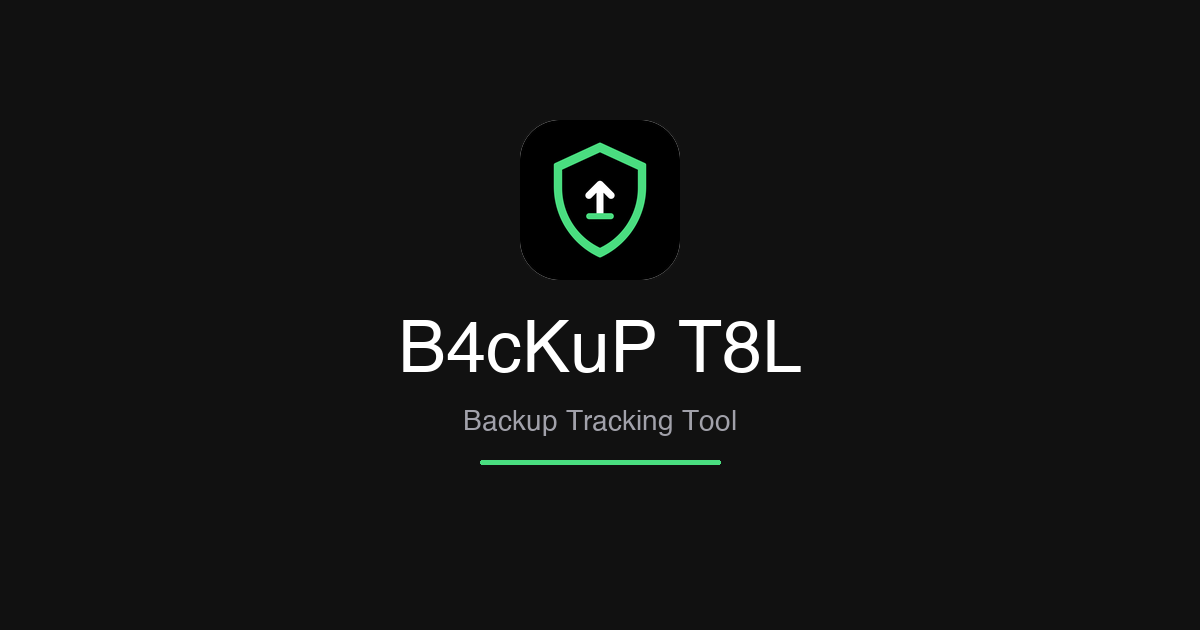
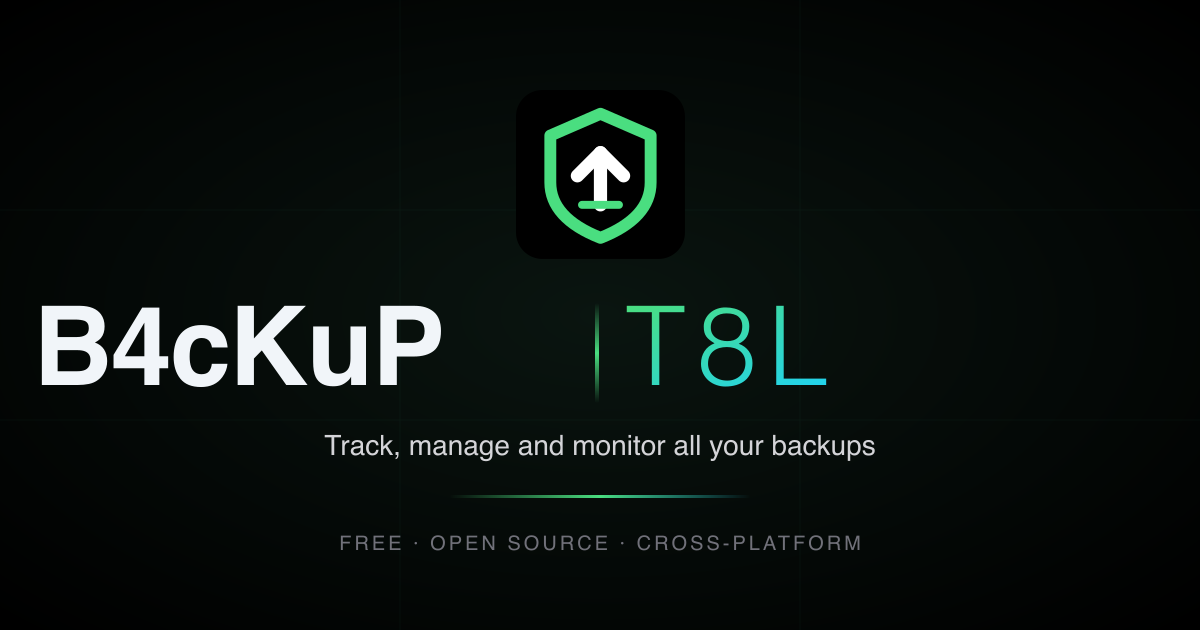
Redesign og-image to match website brand and improve meta tags
- New og-image.svg uses same brand treatment as website hero:
  "B4cKuP" in white + vertical green gradient divider + "T8L" in green→cyan gradient
- Regenerated og-image.png at 1200x630
- Add og:image:width/height/type/alt for better link previews
- Richer og:description and twitter metadata

diff --git a/website/index.html b/website/index.html
@@ -16,17 +16,23 @@
 
     <!-- Open Graph / Social Media -->
     <meta property="og:type" content="website" />
-    <meta property="og:title" content="B4cKuP T8L" />
-    <meta property="og:description" content="Track, manage and monitor all your backups in one place. Free and open source." />
+    <meta property="og:title" content="B4cKuP T8L — Backup Tracking Tool" />
+    <meta property="og:description" content="Track, manage and monitor all your backups in one place. Free, open-source desktop app for Windows, macOS and Linux." />
     <meta property="og:image" content="https://backup-tool.app/og-image.png" />
+    <meta property="og:image:width" content="1200" />
+    <meta property="og:image:height" content="630" />
+    <meta property="og:image:type" content="image/png" />
+    <meta property="og:image:alt" content="B4cKuP T8L — Backup Tracking Tool" />
     <meta property="og:url" content="https://backup-tool.app" />
     <meta property="og:site_name" content="B4cKuP T8L" />
+    <meta property="og:locale" content="en_US" />
 
     <!-- Twitter -->
     <meta name="twitter:card" content="summary_large_image" />
-    <meta name="twitter:title" content="B4cKuP T8L" />
-    <meta name="twitter:description" content="Track, manage and monitor all your backups in one place. Free and open source." />
+    <meta name="twitter:title" content="B4cKuP T8L — Backup Tracking Tool" />
+    <meta name="twitter:description" content="Track, manage and monitor all your backups in one place. Free, open-source desktop app for Windows, macOS and Linux." />
     <meta name="twitter:image" content="https://backup-tool.app/og-image.png" />
+    <meta name="twitter:image:alt" content="B4cKuP T8L — Backup Tracking Tool" />
   </head>
   <body>
     <div id="root"></div>
